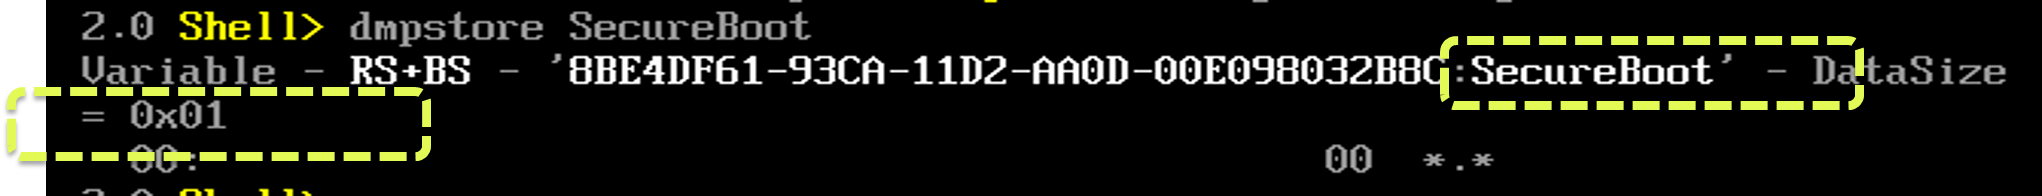
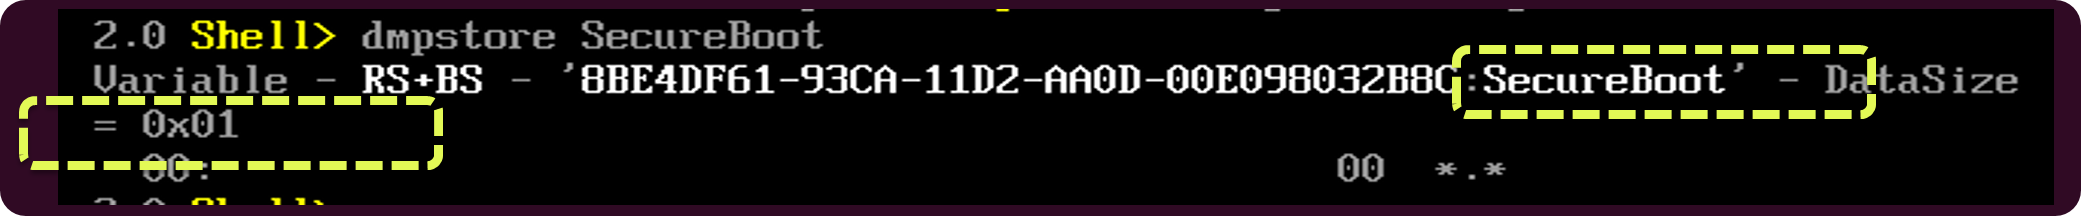
Signed-off-by: Laurie0131 <laurie.jarlstrom@intel.com>

Changed region(s): [[0.0, 0.0, 1.0, 1.0], [0.617, 0.7041, 0.7405, 0.8878], [0.1851, 0.5204, 0.216, 0.6429]]

diff --git a/PITCHME.md b/PITCHME.md
@@ -834,7 +834,7 @@ Note:
 @box[bg-red-pp text-white  rounded ](<span style="font-size:01.2em" ><b>`SecureBoot`</b></span>)
 @snapend
 
-@snap[south span-90 fragment]
+@snap[south span-100 fragment]
 ![SecureBoot](/assets/images/SecureBoot_shell.png)
 @snapend
 
